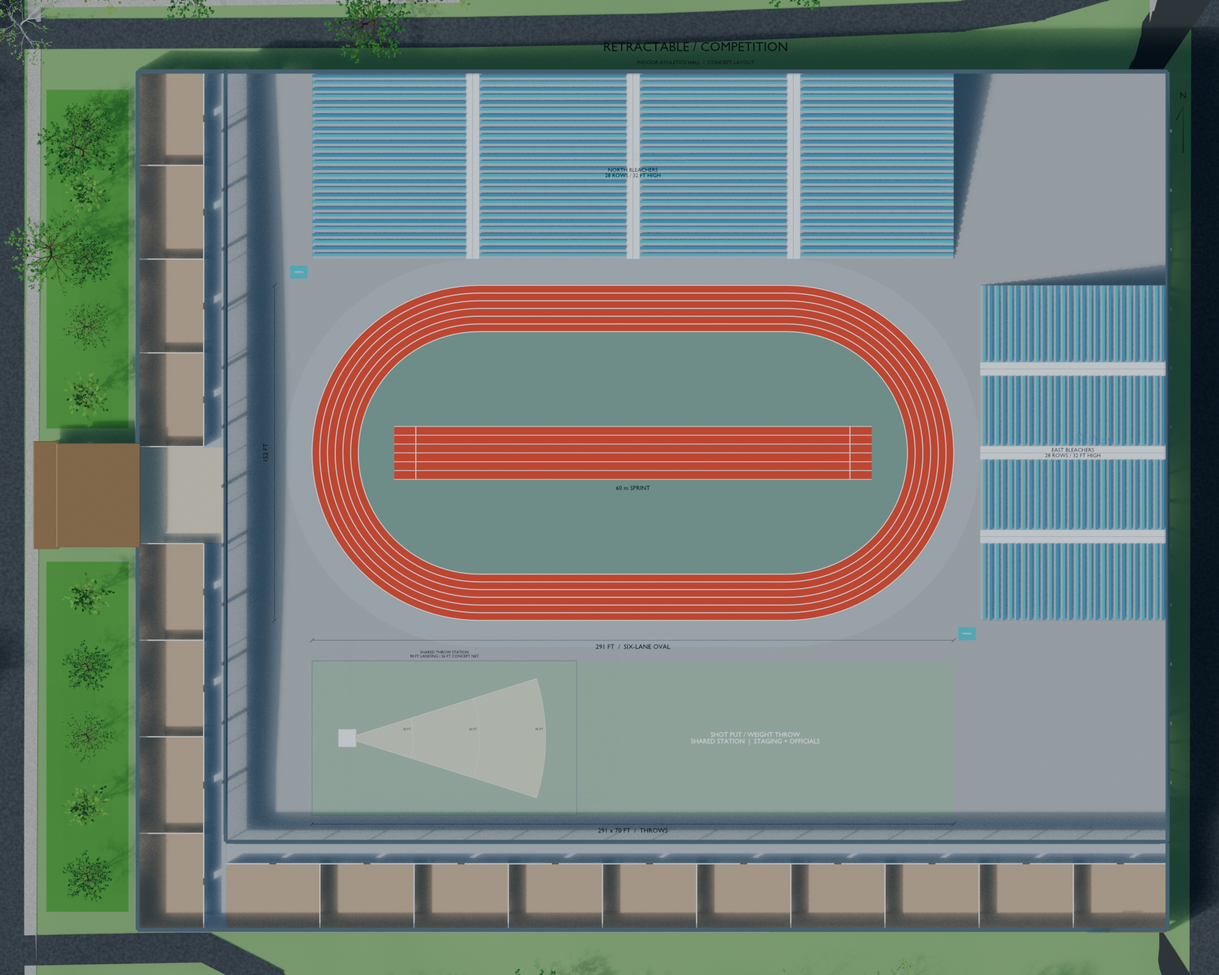
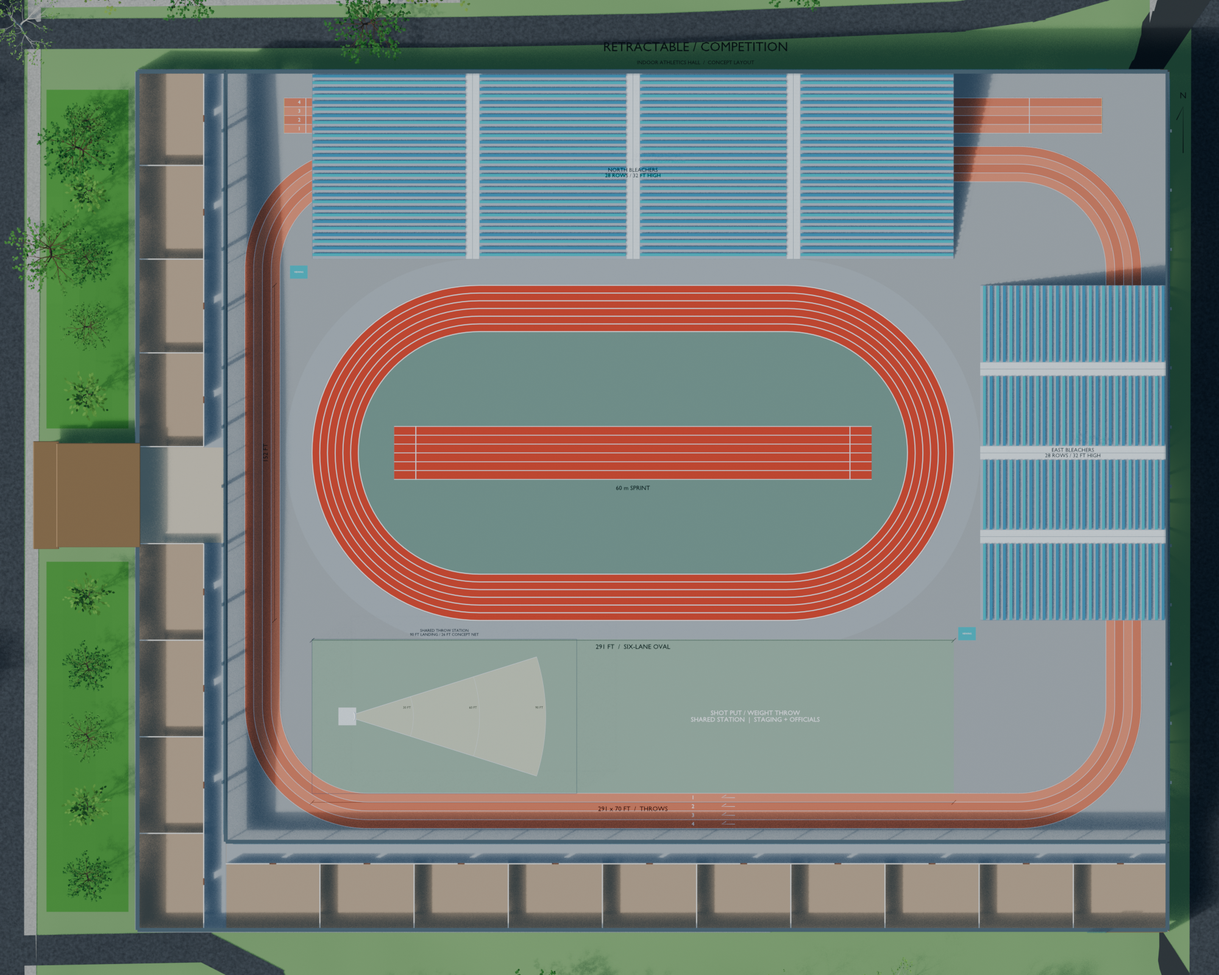
Updated shac copy and added updated renders

Changed region(s): [[0.186, 0.0938, 0.961, 0.875], [0.775, 0.0938, 0.961, 0.3125], [0.589, 0.7188, 0.651, 0.7812]]

diff --git a/shac/index.html b/shac/index.html
@@ -49,10 +49,9 @@
       <header class="shac-hero">
         <figure class="shac-hero-figure">
           <img src="../assets/images/shac/north_park_oblique.webp" srcset="../assets/images/shac/north_park_oblique-900.webp 900w, ../assets/images/shac/north_park_oblique.webp 1920w" sizes="100vw" width="1920" height="1080" fetchpriority="high" alt="Conceptual aerial of a simple fieldhouse beside Cheney’s outdoor track, green space, and Summerhill homes">
-          <figcaption><strong>Conceptual rendering</strong> · A fieldhouse beside the outdoor track, within the surrounding park and neighborhood.</figcaption>
         </figure>
         <div class="container shac-hero-content">
-          <p class="eyebrow eyebrow-light">SHAC · A fieldhouse concept for Cheney</p>
+          <p class="eyebrow eyebrow-light">A Compromise Proposal From Our Cheney</p>
           <h1>One building.<br>Two seasons.</h1>
           <p>A full indoor competition track.<br>A public recreation center.<br>The same building, throughout the year.</p>
           <a class="shac-hero-link" href="#two-seasons">See how the seasons work <span aria-hidden="true">↓</span></a>
@@ -67,9 +66,9 @@
               <h2 id="two-seasons-title">A fieldhouse for<br> the whole year.</h2>
             </div>
             <div class="shac-copy">
-              <p class="shac-lead">SHAC would provide a full indoor competition track without dedicating a large public building to one sport year-round.</p>
+              <p class="shac-lead">We believe that it is possible for a single building to serve both competitive athletics and community recreation throughout the year.  This compromise proposal from Our Cheney provides a viable path forward to meet the community and Atlanta Track Club's needs.</p>
+              <p>SHAC would provide a full indoor competition track without dedicating a large public building to one sport year-round.</p>
               <p>From <strong>December through March</strong>, it would operate primarily as an indoor track-and-field competition venue. From <strong>April through November</strong>, movable athletic surfaces and retractable seating would turn the same floor into a community recreation and tournament facility.</p>
-              <p class="shac-concept-note"><strong>A proposal to investigate.</strong> These conceptual renderings illustrate an idea, not a finished architectural proposal or engineering study. Engineering, costs, an operator, and any agreement remain to be worked out.</p>
             </div>
           </div>
 
@@ -102,7 +101,7 @@
             </div>
             <div class="shac-copy">
               <p>The concept retains the essentials: a full <strong>200-meter competition oval</strong>, interior sprint lanes, field-event areas, adequate clear span and ceiling height, and spectator seating.</p>
-              <p>The working concept targets roughly <strong>1,000–1,500 spectator seats</strong>, with substantial seating movable or retractable so it does not dictate the layout for the other eight months. The building would remain a deliberately straightforward fieldhouse rather than a luxury arena.</p>
+              <p>The working concept contains roughly <strong>1,000–1,500 spectator seats</strong>, with substantial seating movable or retractable so it does not dictate the layout for the other eight months.</p>
             </div>
           </div>
           <div class="shac-renderings">
@@ -111,7 +110,7 @@
                 <img src="../assets/images/shac/comp_plan.webp" srcset="../assets/images/shac/comp_plan-900.webp 900w, ../assets/images/shac/comp_plan.webp 2000w" sizes="(min-width: 992px) 510px, (min-width: 768px) 44vw, 100vw" loading="lazy" width="2000" height="1600" alt="Competition plan with a central oval, interior sprint straight, throwing area, and extended seating along two sides">
                 <span class="shac-enlarge" aria-hidden="true">View larger ↗</span>
               </a>
-              <figcaption><span class="shac-view-label">The plan / Competition</span><strong>Conceptual rendering.</strong> Notice the oval and interior sprint lanes, the field-event space, and the seating extended for meets. The drawing does not establish a final seating count or event layout.</figcaption>
+              <figcaption><span class="shac-view-label">The plan / Competition</span><strong>Conceptual rendering.</strong> 200m track, interior sprint lanes, and room for throws, with the seating extended for meets.</figcaption>
               <a class="shac-compare-link" href="#recreation-plan">Compare the recreation plan <span aria-hidden="true">↓</span></a>
             </figure>
             <div class="shac-perspectives">
@@ -127,7 +126,7 @@
                   <img src="../assets/images/shac/comp_interior.webp" srcset="../assets/images/shac/comp_interior-900.webp 900w, ../assets/images/shac/comp_interior.webp 2000w" sizes="(min-width: 992px) 610px, (min-width: 768px) 52vw, 100vw" loading="lazy" width="2000" height="1125" alt="Competition interior showing the oval, spectator seating, high roof, and a netted throwing area in the foreground">
                   <span class="shac-enlarge" aria-hidden="true">View larger ↗</span>
                 </a>
-                <figcaption><span class="shac-view-label">Inside / Competition</span><strong>Conceptual rendering.</strong> The open floor and roof volume illustrate the space track and field would need.</figcaption>
+                <figcaption><span class="shac-view-label">Inside / Competition</span><strong>Conceptual rendering.</strong> The open floor and roof volume illustrate the space track and field would have.</figcaption>
               </figure>
             </div>
           </div>
@@ -146,7 +145,7 @@
             </div>
             <div class="shac-copy">
               <p>Retract the competition seating, cover and protect competition-only surfaces, and install movable sports floors. The same fieldhouse becomes a public recreation center, with space for everyday play and tournaments.</p>
-              <p>The drawings illustrate <strong>three basketball courts, tennis and pickleball</strong>, with volleyball another possible court configuration. Indoor running and walking continue around the larger recreation floor. The exact mix can change with demand; that flexibility is the point.</p>
+              <p>The drawings illustrate <strong>three basketball courts, tennis and pickleball</strong>, with volleyball another possible court configuration. Indoor running and walking continue around the larger recreation floor.</p>
             </div>
           </div>
           <div class="shac-renderings">
@@ -155,7 +154,7 @@
                 <img src="../assets/images/shac/rec_plan.webp" srcset="../assets/images/shac/rec_plan-900.webp 900w, ../assets/images/shac/rec_plan.webp 2000w" sizes="(min-width: 992px) 510px, (min-width: 768px) 44vw, 100vw" loading="lazy" width="2000" height="1600" alt="Recreation plan with three basketball courts, two tennis courts, four pickleball courts, retracted seating, and a larger perimeter running loop">
                 <span class="shac-enlarge" aria-hidden="true">View larger ↗</span>
               </a>
-              <figcaption><span class="shac-view-label">The plan / Recreation</span><strong>Conceptual rendering.</strong> The dotted oval marks the competition track beneath the shared court floor. Notice the retracted seating and the larger running and walking loop.</figcaption>
+              <figcaption><span class="shac-view-label">The plan / Recreation</span><strong>Conceptual rendering.</strong> The dotted oval marks the competition track beneath the shared court floor. The retracted seating provide access to a larger community running and walking loop.</figcaption>
               <a class="shac-compare-link" href="#competition-plan">Compare the competition plan <span aria-hidden="true">↑</span></a>
             </figure>
             <div class="shac-perspectives">
@@ -238,7 +237,6 @@
           <aside class="shac-turf-note" aria-label="A future flooring possibility">
             <strong>A future possibility: removable turf.</strong> Soccer training, camps, or other field sports could use a portable turf configuration. FieldTurf’s EasyField is designed for repeated installation and removal; <a href="https://fieldturf.com/en/articles/detail/it-s-unanimous-salina-city-commission-votes-easyfield-for-salina-fieldhouse/">Salina’s municipal fieldhouse selected the system</a> for that flexibility. <a href="https://fieldturf.com/en/products/">Explore FieldTurf portable systems <span aria-hidden="true">↗</span></a>
           </aside>
-          <p class="shac-small-note">Manufacturer examples illustrate available technologies; they are not a product selection for SHAC.</p>
         </div>
       </section>
 
@@ -246,13 +244,13 @@
         <div class="container">
           <p class="eyebrow eyebrow-light">Designed to change seasons</p>
           <h2 id="changeover-title">An arena conversion.<br> Twice a year.</h2>
-          <p class="shac-changeover-intro">This is not rebuilding the building twice a year. Like an arena changeover, it is a planned operation that swaps equipment and playing surfaces.</p>
+          <p class="shac-changeover-intro">This is not rebuilding the building twice a year. Like an arena changeover, it is a planned operation that swaps equipment and playing surfaces.  It likely can be accomplished in a day and no more than few.</p>
           <ol class="shac-steps">
             <li><span class="shac-step-number">01</span><h3>Clear &amp; store</h3><p>Remove competition equipment and retract or move seating into its storage position.</p></li>
             <li><span class="shac-step-number">02</span><h3>Protect &amp; install</h3><p>Protect competition-only areas, then roll out or assemble recreation surfaces and set up equipment.</p></li>
             <li><span class="shac-step-number">03</span><h3>Reverse for winter</h3><p>Store recreation floors and equipment, uncover competition surfaces, and restore the track configuration.</p></li>
           </ol>
-          <p class="shac-storage-note"><strong>Design for the changeover from day one.</strong> Adjacent storage and easy floor access should make the spring and winter conversions routine operations. Storage space, staffing, equipment, and timing belong in the design and operating plan.</p>
+          <p class="shac-storage-note"><strong>Design for the changeover from day one.</strong> Adjacent storage and easy floor access should make the spring and winter conversions routine operations.</p>
         </div>
       </section>
 
@@ -277,7 +275,7 @@
           </figure>
           <div class="shac-arrival-modes">
             <article><p class="shac-option-type">Everyday recreation</p><h3>Parking for everyday users.</h3><p>Below-building parking would support ordinary recreation-center visits, within the site’s limited capacity.</p></article>
-            <article><p class="shac-option-type">Track competitions</p><h3>Spectators: drop-off and shuttle-drop-off entry only.</h3><p>Visitors arrive by shuttle, rideshare, team bus, or drop-off. Major events should not attempt to park thousands of spectators at Cheney. Limited on-site parking remains for uses that actually require it, including accessible parking and essential operations.</p></article>
+            <article><p class="shac-option-type">Track competitions</p><h3>Spectators: drop-off and shuttle-drop-off entry only.</h3><p>Visitors arrive by shuttle, rideshare, team bus, or drop-off. With a single controlled entrance access can be limited to shuttle and drop off only.  Visitors that attempt to park in the neighborhood will not be allowed access. Limited on-site parking remains for uses that actually require it, including accessible parking and essential operations.  </p></article>
           </div>
           <figure class="shac-figure shac-site-figure shac-landscape-figure">
             <a class="shac-image-link" href="../assets/images/north_park_oblique.png" aria-label="Open the full-size conceptual fieldhouse and park aerial">
@@ -301,7 +299,7 @@
               <li><strong>Make the interior convertible.</strong> Different surfaces and equipment for different seasons.</li>
               <li><strong>Get more public use from the same footprint.</strong> Four months of track competition and eight months of recreation.</li>
             </ul>
-            <p>SHAC would give track competition a legitimate home for four months without making Cheney a single-purpose track complex for twelve. Clear-span fieldhouses, retractable seating, removable courts, portable hardwood and turf, and seasonal arena conversions already exist. The proposal is to investigate how those ideas could work together here.</p>
+            <p>This compromise would give track competition a legitimate home for four months without making Cheney a single-purpose track complex for twelve. Clear-span fieldhouses, retractable seating, removable courts, portable hardwood and turf, and seasonal arena conversions already exist. The proposal is to investigate how those ideas could work together here.</p>
           </div>
         </div>
       </section>
@@ -311,7 +309,7 @@
           <div class="shac-heading-grid">
             <div><p class="eyebrow">The long-term public asset</p><h2 id="public-value-title">Built for a season.<br> Useful for generations.</h2></div>
             <div class="shac-copy">
-              <p class="shac-lead">Think of SHAC as a fieldhouse that happens to be configured around indoor track first.</p>
+              <p class="shac-lead">Think of this as a fieldhouse that happens to be configured around indoor track first.</p>
               <p>If Atlanta Track Club or another competition operator eventually moved to a larger purpose-built venue, the shell, slab, utilities, parking, and recreation infrastructure would remain useful.</p>
               <p>The building could become a full-time public basketball, volleyball, pickleball, tennis, and indoor-sports center. The replaceable sports surfaces are not the long-lived asset. <strong>The building is.</strong></p>
             </div>
@@ -322,8 +320,8 @@
 
       <section class="shac-closing" aria-labelledby="shac-closing-title">
         <div class="container">
-          <p class="eyebrow eyebrow-light">SHAC / An idea worth investigating</p>
-          <p>SHAC does not ask whether Cheney should be a track facility or a community recreation facility.</p>
+          <p class="eyebrow eyebrow-light">An idea worth investigating</p>
+          <p>Our Cheney does not ask whether it should be a track facility or a community recreation facility.</p>
           <h2 id="shac-closing-title">It asks whether the same building can successfully be both.</h2>
         </div>
       </section>
